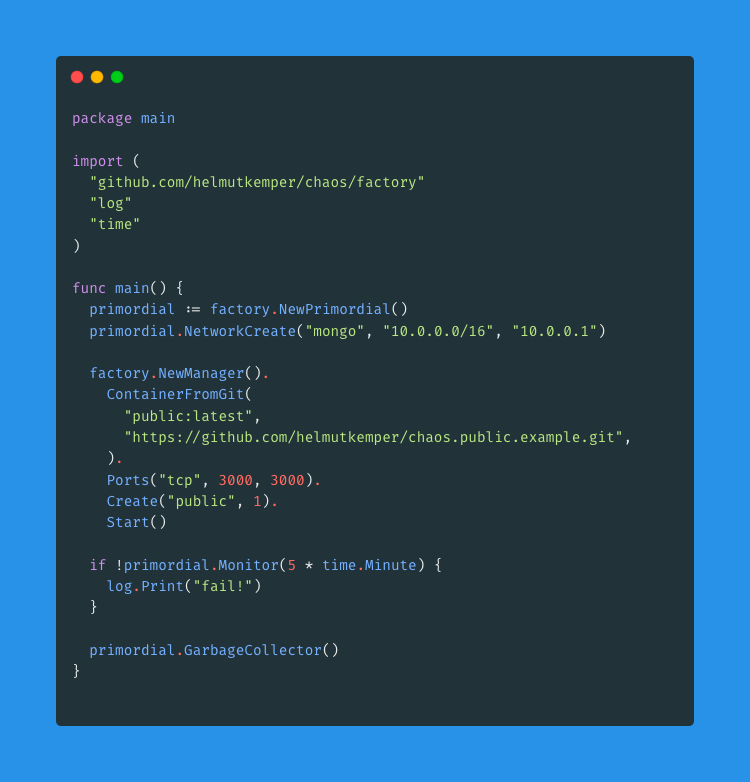
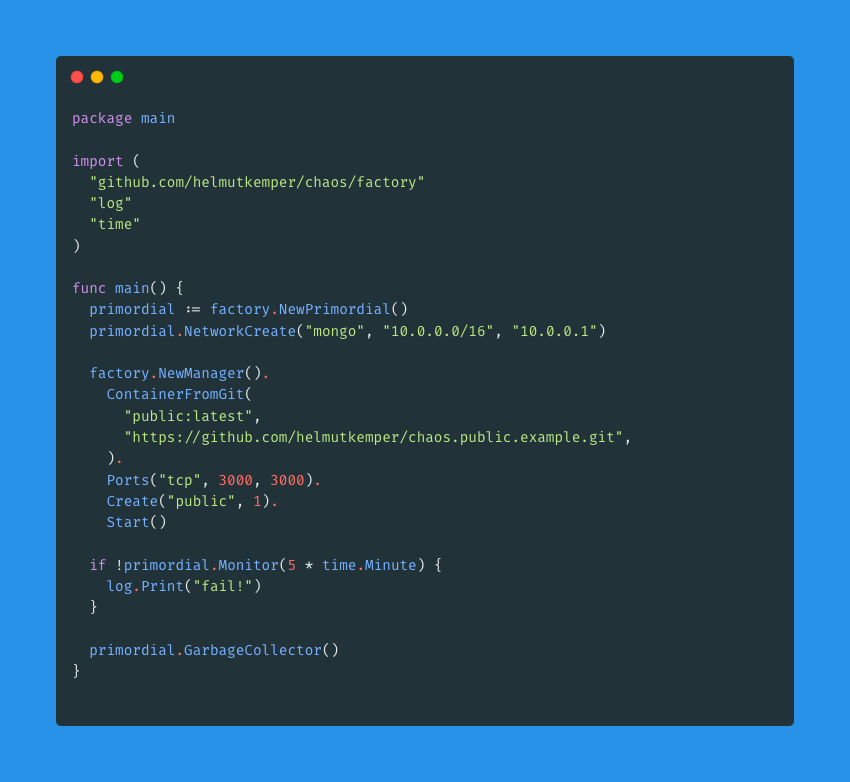
done!

Changed region(s): [[0.0613, 0.0614, 0.828, 0.9207], [0.92, 0.0614, 0.9507, 0.9207], [0.1227, 0.7059, 0.552, 0.7673]]

diff --git a/README.md b/README.md
@@ -4,7 +4,7 @@
 
 This example turns a git repository into a container
 
-![basic usage](./images/img.png)
+![basic usage](./images/basic.png)
 
 ```shell
   make build
